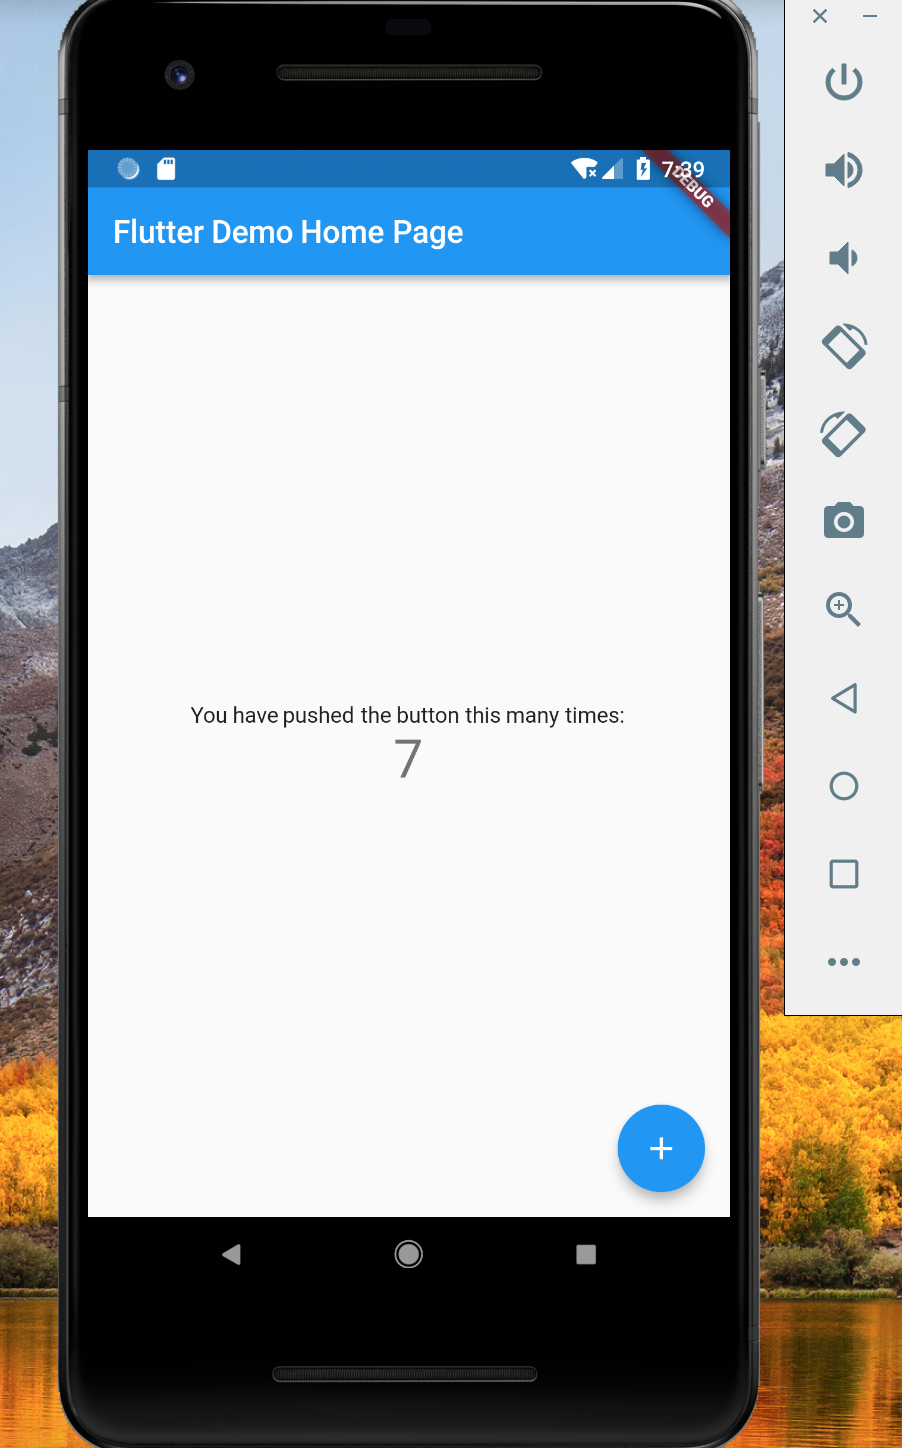
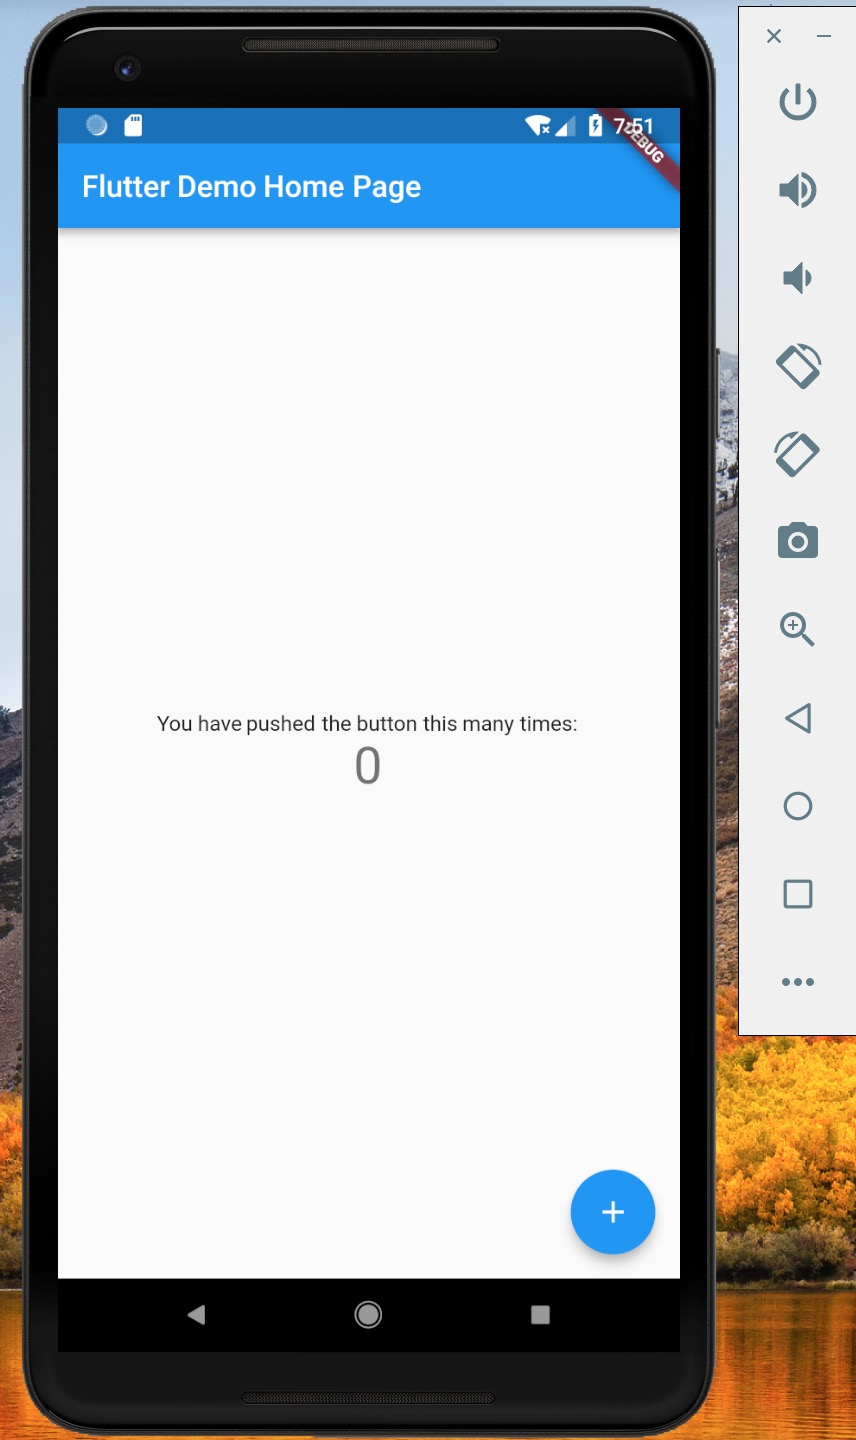
change image

diff --git a/content/post/2018/07/Flutter-getting-started-tutorial.md b/content/post/2018/07/Flutter-getting-started-tutorial.md
@@ -37,7 +37,7 @@ export PATH=[PATH_TO_FLUTTER_GIT_DIRECTORY]/flutter/bin:$PATH
 
 首先我们安装 Android Studio，然后去 Android Studio 的 Plugins 下的Browse repositories 里搜索安装 Dart 和 Flutter 这两个插件。
 
-然后我们来创建一个安装模拟器，启动 Android Studio>Tools>AVD Manager 选择 Create Virtual Device，选择一个设备，这里我们选择的是 Pixel 2，点 Next，选择一个系统镜像，我选的是 API 27 的 Oreo，点击 Download，选中我们下载的系统镜像，点 Next，在 Emulated Performance 选项下，选择 Hardware - GLES 2.0 来开启硬件加速，确认配置，点 Finish。
+然后我们来创建一个安装模拟器，启动 Android Studio>Tools>AVD Manager 选择 Create Virtual Device，选择一个设备，这里我们选择的是 Pixel 2 XL，点 Next，选择一个系统镜像，我选的是 API 27 的 Oreo，点击 Download，选中我们下载的系统镜像，点 Next，在 Emulated Performance 选项下，选择 Hardware - GLES 2.0 来开启硬件加速，确认配置，点 Finish。
 
 ## VS Code 开发环境
 
